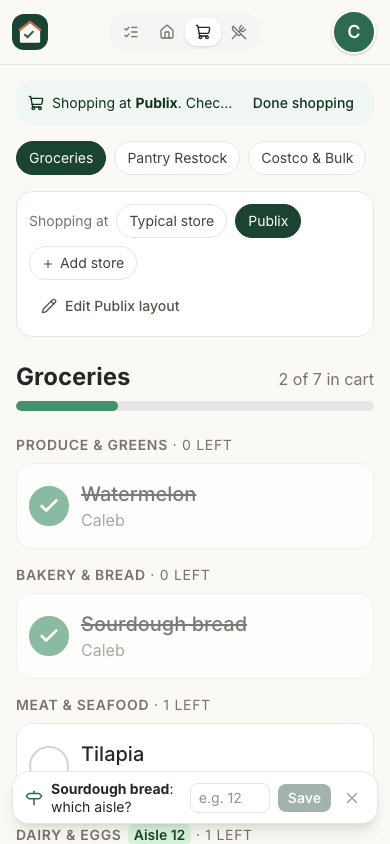
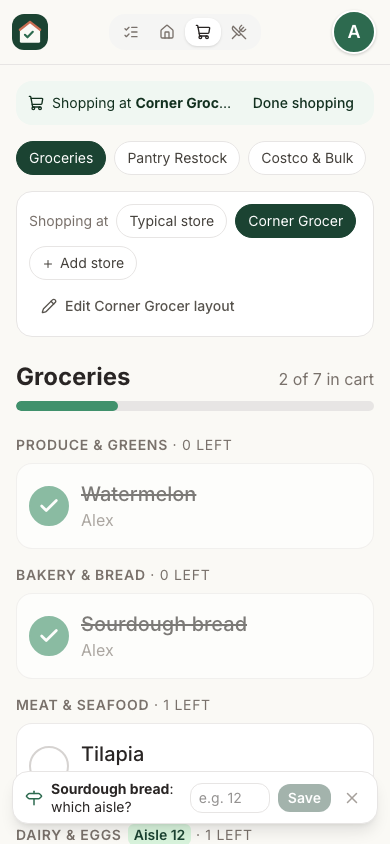
fix: invented sample data only; household lifecycle from the kit
Screenshots and tests used a real first name, family name, grocery chain and
street. They now use Alex Example, Example Household, Corner Grocer and Main St,
and the sample clock is January 2031, so no appointment reads as real.

Household membership (follow, invite, remove, mark joined) comes from
@huishouden/pwa-kit/household, so every app picks the same household. Creating
one stays local: it writes the household and its default lists in one batch.

diff --git a/src/data/store.ts b/src/data/store.ts
@@ -8,8 +8,6 @@ import {
   type User,
 } from 'firebase/auth';
 import {
-  arrayRemove,
-  arrayUnion,
   collection,
   deleteDoc,
   doc,
@@ -27,6 +25,7 @@ import {
   type Query,
   type QuerySnapshot,
 } from 'firebase/firestore';
+import { watchHousehold } from '@huishouden/pwa-kit/household';
 import { getFirebase } from '../lib/firebase';
 import { mealKey, type FavoriteMeal, type Meal, type Menu } from './menus';
 import type { GeoPoint, LearnedAisle, StoreLayout } from './stores';
@@ -104,32 +103,21 @@ export type HouseholdState =
   | { status: 'error'; message: string }
   | { status: 'ready'; household: Household };
 
+/**
+ * The household this person belongs to, chosen the same way in every Huishouden app (the kit's
+ * `watchHousehold`: the oldest, skipping one the server has not accepted yet).
+ */
 export function useHousehold(db: Firestore, email: string): HouseholdState {
   const [state, setState] = useState<HouseholdState>({ status: 'loading' });
-  useEffect(() => {
-    const q = query(collection(db, 'households'), where('members', 'array-contains', email));
-    // A household that exists only as a local, unacknowledged write is not usable yet: the rules
-    // check its membership on the server, so subscribing to its lists early is refused.
-    const confirmed = new Set<string>();
-    return onSnapshot(
-      q,
-      { includeMetadataChanges: true },
-      (snap) => {
-        for (const d of snap.docs) if (!d.metadata.hasPendingWrites) confirmed.add(d.id);
-        const households = snap.docs
-          .filter((d) => confirmed.has(d.id))
-          .map((d) => ({ id: d.id, ...d.data() }) as Household)
-          // A person belongs to one household; the oldest wins if they were ever added to two.
-          .sort((a, b) => a.createdAt - b.createdAt);
-        if (households.length > 0) setState({ status: 'ready', household: households[0] });
-        else if (snap.empty) setState({ status: 'none' });
-      },
-      (e) => setState({ status: 'error', message: e.message }),
-    );
-  }, [db, email]);
+  useEffect(
+    () => watchHousehold(db, email, (next) => setState(next.status === 'error' ? { status: 'error', message: next.error.message } : next)),
+    [db, email],
+  );
   return state;
 }
 
+/** Starts a household with the default lists. One batch, so the household never exists without them
+ * (the kit's createHousehold writes the household alone). */
 export async function createHousehold(db: Firestore, email: string, name: string): Promise<void> {
   const ref = doc(collection(db, 'households'));
   const now = Date.now();
@@ -140,18 +128,6 @@ export async function createHousehold(db: Firestore, email: string, name: string
     batch.set(doc(db, 'households', ref.id, 'lists', list.id), { ...list, createdAt: now });
   }
   await batch.commit();
-}
-
-export async function addMember(db: Firestore, householdId: string, email: string): Promise<void> {
-  await updateDoc(doc(db, 'households', householdId), { members: arrayUnion(email.trim().toLowerCase()) });
-}
-
-export async function markJoined(db: Firestore, householdId: string, email: string): Promise<void> {
-  await updateDoc(doc(db, 'households', householdId), { joined: arrayUnion(email) });
-}
-
-export async function removeMember(db: Firestore, householdId: string, email: string): Promise<void> {
-  await updateDoc(doc(db, 'households', householdId), { members: arrayRemove(email) });
 }
 
 export interface HouseholdData {

diff --git a/e2e/stores.spec.ts b/e2e/stores.spec.ts
@@ -31,12 +31,12 @@ test('a store layout changes the walking order and shows aisle labels', async ({
   await expect.poll(() => sectionOrder(page)).toEqual(['Produce & Greens', 'Dairy & Eggs', 'Frozen Foods']);
 
   await page.getByRole('button', { name: /Add store/ }).click();
-  await page.getByLabel('Store name').fill('Publix');
+  await page.getByLabel('Store name').fill('Corner Grocer');
   await page.getByRole('button', { name: 'Add', exact: true }).click();
-  const editor = page.getByRole('region', { name: 'Publix layout' });
+  const editor = page.getByRole('region', { name: 'Corner Grocer layout' });
   await expect(editor).toBeVisible();
 
-  // Frozen moves from 8th to the top: this Publix is walked back to front.
+  // Frozen moves from 8th to the top: this Corner Grocer is walked back to front.
   await moveRow(page, 'Frozen Foods', -7);
   await editor.getByLabel('Aisle for Dairy & Eggs').fill('Aisle 12');
   await editor.getByRole('button', { name: 'Done', exact: true }).click();
@@ -54,7 +54,7 @@ test('opening Store mode at a saved store picks it automatically', async ({ cont
 
   await page.getByRole('button', { name: 'Store', exact: true }).click();
   await page.getByRole('button', { name: /Add store/ }).click();
-  await page.getByLabel('Store name').fill('Publix');
+  await page.getByLabel('Store name').fill('Corner Grocer');
   await page.getByRole('button', { name: 'Add', exact: true }).click();
   await page.getByRole('button', { name: /save this spot/ }).click();
   await expect(page.getByText('Location saved.')).toBeVisible();
@@ -65,13 +65,13 @@ test('opening Store mode at a saved store picks it automatically', async ({ cont
   await context.setGeolocation({ latitude: 39.76, longitude: -105.01 });
   await page.getByRole('button', { name: 'Lists' }).click();
   await page.getByRole('button', { name: 'Store', exact: true }).click();
-  await expect(page.getByText(/Shopping at Publix/)).toHaveCount(0);
+  await expect(page.getByText(/Shopping at Corner Grocer/)).toHaveCount(0);
 
-  // Back in the car park: Publix is picked.
+  // Back in the car park: Corner Grocer is picked.
   await context.setGeolocation({ latitude: 39.7394, longitude: -104.9901 });
   await page.getByRole('button', { name: 'Lists' }).click();
   await page.getByRole('button', { name: 'Store', exact: true }).click();
-  await expect(page.getByRole('status').filter({ hasText: 'Shopping at Publix' })).toBeVisible();
+  await expect(page.getByRole('status').filter({ hasText: 'Shopping at Corner Grocer' })).toBeVisible();
 });
 
 test('lists can be reordered for everyone', async ({ page }) => {
@@ -88,9 +88,9 @@ test('the layout editor keeps section names readable on a phone', async ({ page 
   await page.setViewportSize({ width: 390, height: 844 });
   await page.getByRole('button', { name: 'Store', exact: true }).click();
   await page.getByRole('button', { name: /Add store/ }).click();
-  await page.getByLabel('Store name').fill('Publix');
+  await page.getByLabel('Store name').fill('Corner Grocer');
   await page.getByRole('button', { name: 'Add', exact: true }).click();
-  const editor = page.getByRole('region', { name: 'Publix layout' });
+  const editor = page.getByRole('region', { name: 'Corner Grocer layout' });
   // Regression: the aisle box took the whole row and wrapped names one word per line.
   const name = editor.getByText('Pantry & Dry Goods', { exact: true });
   const box = (await name.boundingBox())!;

diff --git a/e2e/screenshots.spec.ts b/e2e/screenshots.spec.ts
@@ -24,9 +24,11 @@ async function shot(page: Page, name: string) {
 
 test('README screenshots', async ({ page }) => {
   test.setTimeout(120_000);
+  // An obviously invented date, so sample appointments never read as real ones.
+  await page.clock.install({ time: new Date(2031, 0, 6, 10, 0) });
   await page.setViewportSize({ width: 1280, height: 800 });
-  await signIn(page, 'caleb@example.com', 'Caleb Example');
-  await page.getByLabel('Household name').fill('Piekstra Household');
+  await signIn(page, 'alex@example.com', 'Alex Example');
+  await page.getByLabel('Household name').fill('Example Household');
   await createHousehold(page);
 
   // Bought this week (on the Costco list, so Groceries shows only what is still needed), for meal ideas.
@@ -55,7 +57,7 @@ test('README screenshots', async ({ page }) => {
   await addItem(page, 'Get car inspected at the dealer');
   await page.getByRole('button', { name: 'Edit Get car inspected at the dealer' }).click();
   const dialog = page.getByRole('dialog');
-  await dialog.getByLabel('Date', { exact: true }).fill('2026-10-08');
+  await dialog.getByLabel('Date', { exact: true }).fill('2031-01-09');
   await dialog.getByLabel('Time (optional)').fill('10:30');
   await dialog.getByLabel('Where').fill('Main St Service Center');
   await dialog.getByRole('button', { name: 'Save' }).click();
@@ -67,7 +69,7 @@ test('README screenshots', async ({ page }) => {
   for (const i of [0, 1, 2]) await page.getByRole('list', { name: 'Steps for Garage cleanout' }).getByRole('checkbox').nth(i).click();
   // Same clock on every run from here (after the data exists, so item order still follows when
   // each was added), so before/after and README screenshots differ only by real changes.
-  await page.clock.setFixedTime(new Date(2026, 9, 5, 10, 30));
+  await page.clock.setFixedTime(new Date(2031, 0, 6, 10, 30));
   await shot(page, 'tasks-checklist');
 
   await page.getByRole('button', { name: /Groceries/ }).first().click();
@@ -87,7 +89,7 @@ test('README screenshots', async ({ page }) => {
   await page.setViewportSize({ width: 390, height: 844 });
   await page.getByRole('button', { name: 'Store', exact: true }).click();
   await page.getByRole('button', { name: /Add store/ }).click();
-  await page.getByLabel('Store name').fill('Publix');
+  await page.getByLabel('Store name').fill('Corner Grocer');
   await page.getByRole('button', { name: 'Add', exact: true }).click();
   await page.getByLabel('Aisle for Dairy & Eggs').fill('Aisle 12');
   await page.getByLabel('Aisle for Household & Cleaning').fill('Aisle 15');

diff --git a/e2e/aisles.spec.ts b/e2e/aisles.spec.ts
@@ -7,7 +7,7 @@ const HERE = { latitude: 39.7392, longitude: -104.9903 };
 async function storeNearby(page: Page) {
   await page.route('https://overpass-api.de/**', (route) =>
     route.fulfill({
-      json: { elements: [{ type: 'way', id: 42, center: { lat: HERE.latitude, lon: HERE.longitude }, tags: { shop: 'supermarket', brand: 'Publix', 'addr:street': 'West Main Street' } }] },
+      json: { elements: [{ type: 'way', id: 42, center: { lat: HERE.latitude, lon: HERE.longitude }, tags: { shop: 'supermarket', brand: 'Corner Grocer', 'addr:street': 'West Main Street' } }] },
     }),
   );
 }
@@ -35,8 +35,8 @@ test('a detected store is offered once; Not now keeps it away after a reload', a
   await atTheStore(context);
   await page.reload();
   const offer = page.getByRole('region', { name: 'Detected store' });
-  await expect(offer).toContainText('At Publix · Main St?');
-  await offer.getByRole('button', { name: 'Not at Publix · Main St' }).click();
+  await expect(offer).toContainText('At Corner Grocer · Main St?');
+  await offer.getByRole('button', { name: 'Not at Corner Grocer · Main St' }).click();
   await expect(offer).toHaveCount(0);
   await page.reload();
   await expect(page.getByRole('heading', { name: 'Groceries', level: 1 })).toBeVisible();
@@ -48,11 +48,11 @@ test('shopping a detected store: optional aisles while checking off, then groupe
   await atTheStore(context);
   await page.reload();
   await page.getByRole('region', { name: 'Detected store' }).getByRole('button', { name: 'Yes' }).click();
-  await expect(page.getByRole('status').filter({ hasText: 'Shopping at Publix · Main St' })).toBeVisible();
+  await expect(page.getByRole('status').filter({ hasText: 'Shopping at Corner Grocer · Main St' })).toBeVisible();
 
   // Checking off offers an aisle; answering is optional.
   await page.getByRole('button', { name: 'Mark Greek yogurt done' }).click();
-  const prompt = page.getByRole('region', { name: /^Aisle for Greek yogurt at Publix/ });
+  const prompt = page.getByRole('region', { name: /^Aisle for Greek yogurt at Corner Grocer/ });
   await expect(prompt).toContainText('Greek yogurt: which aisle?');
   await prompt.getByLabel('Aisle for Greek yogurt', { exact: true }).fill('12');
   await prompt.getByLabel('Aisle for Greek yogurt', { exact: true }).press('Enter');

diff --git a/test/rules/firestore.rules.test.ts b/test/rules/firestore.rules.test.ts
@@ -138,7 +138,7 @@ describe('household contents', () => {
   });
 
   it('lets members manage store layouts, validates them, and hides them from others', async () => {
-    const layout = { name: 'Publix', categoryOrder: ['Frozen Foods'], aisleLabels: {}, location: null, createdAt: 1 };
+    const layout = { name: 'Corner Grocer', categoryOrder: ['Frozen Foods'], aisleLabels: {}, location: null, createdAt: 1 };
     await assertSucceeds(setDoc(doc(as(ALICE), 'households/h1/stores/s1'), layout));
     await assertSucceeds(getDoc(doc(as(BOB), 'households/h1/stores/s1')));
     await assertFails(getDoc(doc(as(MALLORY), 'households/h1/stores/s1')));
@@ -147,7 +147,7 @@ describe('household contents', () => {
 
   it('lets members record learned aisles, within limits', async () => {
     await env.withSecurityRulesDisabled(async (ctx) => {
-      await setDoc(doc(ctx.firestore(), 'households/h1/stores/s1'), { name: 'Publix', categoryOrder: [] });
+      await setDoc(doc(ctx.firestore(), 'households/h1/stores/s1'), { name: 'Corner Grocer', categoryOrder: [] });
     });
     const aisle = { aisle: '12', name: 'Milk', updatedAt: 1, updatedBy: 'Bob' };
     await assertSucceeds(setDoc(doc(as(BOB), 'households/h1/stores/s1/aisles/milk'), aisle));
@@ -159,7 +159,7 @@ describe('household contents', () => {
 
   it('lets members read spending transactions that no browser can write', async () => {
     await env.withSecurityRulesDisabled(async (ctx) => {
-      await setDoc(doc(ctx.firestore(), 'households/h1/spendingTransactions/t1'), { amount: 12.5, merchant: 'Publix' });
+      await setDoc(doc(ctx.firestore(), 'households/h1/spendingTransactions/t1'), { amount: 12.5, merchant: 'Corner Grocer' });
     });
     await assertSucceeds(getDoc(doc(as(ALICE), 'households/h1/spendingTransactions/t1')));
     await assertFails(getDoc(doc(as(MALLORY), 'households/h1/spendingTransactions/t1')));

diff --git a/src/App.tsx b/src/App.tsx
@@ -1,5 +1,6 @@
 import { useEffect, useMemo, useRef, useState } from 'react';
 import type { Firestore } from 'firebase/firestore';
+import { inviteMember, markJoined, removeMember } from '@huishouden/pwa-kit/household';
 import { CloudOff, Home, ListChecks, Loader2, ShoppingCart, UtensilsCrossed } from 'lucide-react';
 import type { AddRequest } from './components/AddBar';
 import { ErrorNotice } from './components/ErrorNotice';
@@ -12,10 +13,7 @@ import { CATEGORIES, firstName, removedMessage, type Household, type ListIcon, t
 const FOOD_LIST_ICONS: ListIcon[] = ['grocery', 'pantry', 'bulk'];
 import {
   HouseholdRepo,
-  addMember,
   createHousehold,
-  markJoined,
-  removeMember,
   signIn,
   signOut,
   useAuth,
@@ -232,7 +230,7 @@ function HouseholdApp({
 
   const hasJoined = (household.joined ?? []).includes(email);
   useEffect(() => {
-    if (!hasJoined) void markJoined(db, household.id, email).catch(() => {});
+    if (!hasJoined) void markJoined(db, { ...household, joined: household.joined ?? [] }, email).catch(() => {});
   }, [hasJoined, db, household.id, email]);
 
   // A shopping trip: aisle prompts only appear while one is running, and it ends on its own.
@@ -515,7 +513,7 @@ function HouseholdApp({
           theme={theme}
           setTheme={setTheme}
           install={install}
-          onAddMember={(e) => addMember(db, household.id, e)}
+          onAddMember={(e) => inviteMember(db, household.id, e)}
           onRemoveMember={(e) => removeMember(db, household.id, e)}
           onSignOut={() => void signOut()}
           onClose={() => setSettings(false)}

diff --git a/test/unit/stores.test.ts b/test/unit/stores.test.ts
@@ -35,18 +35,18 @@ describe('groupForStore', () => {
 
 describe('nearestStore', () => {
   // Two points about 1.1 km apart on the same street in Denver.
-  const publix = store('Publix', { lat: 39.7392, lng: -104.9903 });
+  const grocer = store('Corner Grocer', { lat: 39.7392, lng: -104.9903 });
   const target = store('Target', { lat: 39.7392, lng: -104.9774 });
 
   it('measures distance in metres', () => {
-    expect(distanceMeters(publix.location!, target.location!)).toBeGreaterThan(1000);
-    expect(distanceMeters(publix.location!, target.location!)).toBeLessThan(1200);
+    expect(distanceMeters(grocer.location!, target.location!)).toBeGreaterThan(1000);
+    expect(distanceMeters(grocer.location!, target.location!)).toBeLessThan(1200);
   });
 
   it('picks the closest store within 400 m, and none when far from all', () => {
-    expect(nearestStore([publix, target], { lat: 39.7394, lng: -104.9901 })?.name).toBe('Publix');
-    expect(nearestStore([publix, target], { lat: 39.7392, lng: -104.9776 })?.name).toBe('Target');
-    expect(nearestStore([publix, target], { lat: 39.76, lng: -105.01 })).toBeNull();
+    expect(nearestStore([grocer, target], { lat: 39.7394, lng: -104.9901 })?.name).toBe('Corner Grocer');
+    expect(nearestStore([grocer, target], { lat: 39.7392, lng: -104.9776 })?.name).toBe('Target');
+    expect(nearestStore([grocer, target], { lat: 39.76, lng: -105.01 })).toBeNull();
   });
 
   it('skips stores without a saved location', () => {

diff --git a/test/unit/places-aisles.test.ts b/test/unit/places-aisles.test.ts
@@ -18,14 +18,14 @@ describe('parsePlaces', () => {
     const places = parsePlaces(
       {
         elements: [
-          { type: 'way', id: 2, center: { lat: 39.7400, lon: -104.9903 }, tags: { shop: 'supermarket', name: 'Publix Super Market', brand: 'Publix', 'addr:street': 'West Main Street', 'addr:housenumber': '10' } },
+          { type: 'way', id: 2, center: { lat: 39.7400, lon: -104.9903 }, tags: { shop: 'supermarket', name: 'Corner Grocer Super Market', brand: 'Corner Grocer', 'addr:street': 'West Main Street', 'addr:housenumber': '10' } },
           { type: 'node', id: 1, lat: 39.7393, lon: -104.9903, tags: { shop: 'convenience', name: 'Corner Shop' } },
           { type: 'node', id: 3, lat: 39.74, lon: -104.99, tags: { shop: 'supermarket' } },
         ],
       },
       here,
     );
-    expect(places.map((p) => placeLabel(p))).toEqual(['Corner Shop', 'Publix · Main St']);
+    expect(places.map((p) => placeLabel(p))).toEqual(['Corner Shop', 'Corner Grocer · Main St']);
     expect(places[1]).toMatchObject({ osmId: 'way/2', address: '10 West Main Street' });
   });
 });

diff --git a/src/data/places.ts b/src/data/places.ts
@@ -4,7 +4,7 @@ import { distanceMeters, type GeoPoint } from './stores';
 export interface NearbyPlace {
   osmId: string;
   name: string;
-  /** Short street, e.g. "Indiantown Rd", used to tell branches of a chain apart. */
+  /** Short street, e.g. "Main St", used to tell branches of a chain apart. */
   street: string;
   address: string;
   location: GeoPoint;
@@ -25,14 +25,14 @@ const STREET_WORDS: [RegExp, string][] = [
   [/\bparkway\b/i, 'Pkwy'],
 ];
 
-/** "West Indiantown Road" → "Indiantown Rd". */
+/** "West Main Street" → "Main St". */
 export function shortStreet(street: string): string {
   let s = street.trim();
   for (const [re, to] of STREET_WORDS) s = s.replace(re, to);
   return s.replace(/\s+/g, ' ').trim();
 }
 
-/** What the household sees: "Publix · Indiantown Rd". */
+/** What the household sees: "Corner Grocer · Main St". */
 export function placeLabel(place: Pick<NearbyPlace, 'name' | 'street'>): string {
   return place.street ? `${place.name} · ${place.street}` : place.name;
 }

diff --git a/test/unit/model.test.ts b/test/unit/model.test.ts
@@ -23,7 +23,7 @@ function item(overrides: Partial<ListItem>): ListItem {
     category: CATEGORIES.OTHER,
     quantity: '1',
     notes: '',
-    addedBy: 'Caleb',
+    addedBy: 'Alex',
     completed: false,
     urgency: URGENCY.NORMAL,
     createdAt: 0,
@@ -137,7 +137,7 @@ describe('formatListForSharing', () => {
 
 describe('firstName', () => {
   it('uses the first word of the Google display name', () => {
-    expect(firstName('Caleb Piekstra', 'x@example.com')).toBe('Caleb');
+    expect(firstName('Alex Example', 'x@example.com')).toBe('Alex');
   });
 
   it('falls back to the email local part', () => {

diff --git a/src/views/StoreView.tsx b/src/views/StoreView.tsx
@@ -111,7 +111,7 @@ export function StoreView(props: Props) {
               setEditing(true);
             }}
           >
-            <input value={newName} onChange={(e) => setNewName(e.target.value)} placeholder="Publix on Main St" className={inputClass} autoFocus aria-label="Store name" />
+            <input value={newName} onChange={(e) => setNewName(e.target.value)} placeholder="Corner Grocer on Main St" className={inputClass} autoFocus aria-label="Store name" />
             <button type="submit" disabled={!newName.trim()} className={primaryButton}>
               Add
             </button>

diff --git a/test/unit/menus.test.ts b/test/unit/menus.test.ts
@@ -17,7 +17,7 @@ function bought(name: string, daysAgo: number | null, listId = 'groceries'): Lis
     category: CATEGORIES.OTHER,
     quantity: '1',
     notes: '',
-    addedBy: 'Caleb',
+    addedBy: 'Alex',
     completed: daysAgo !== null,
     urgency: URGENCY.NORMAL,
     createdAt: 0,
